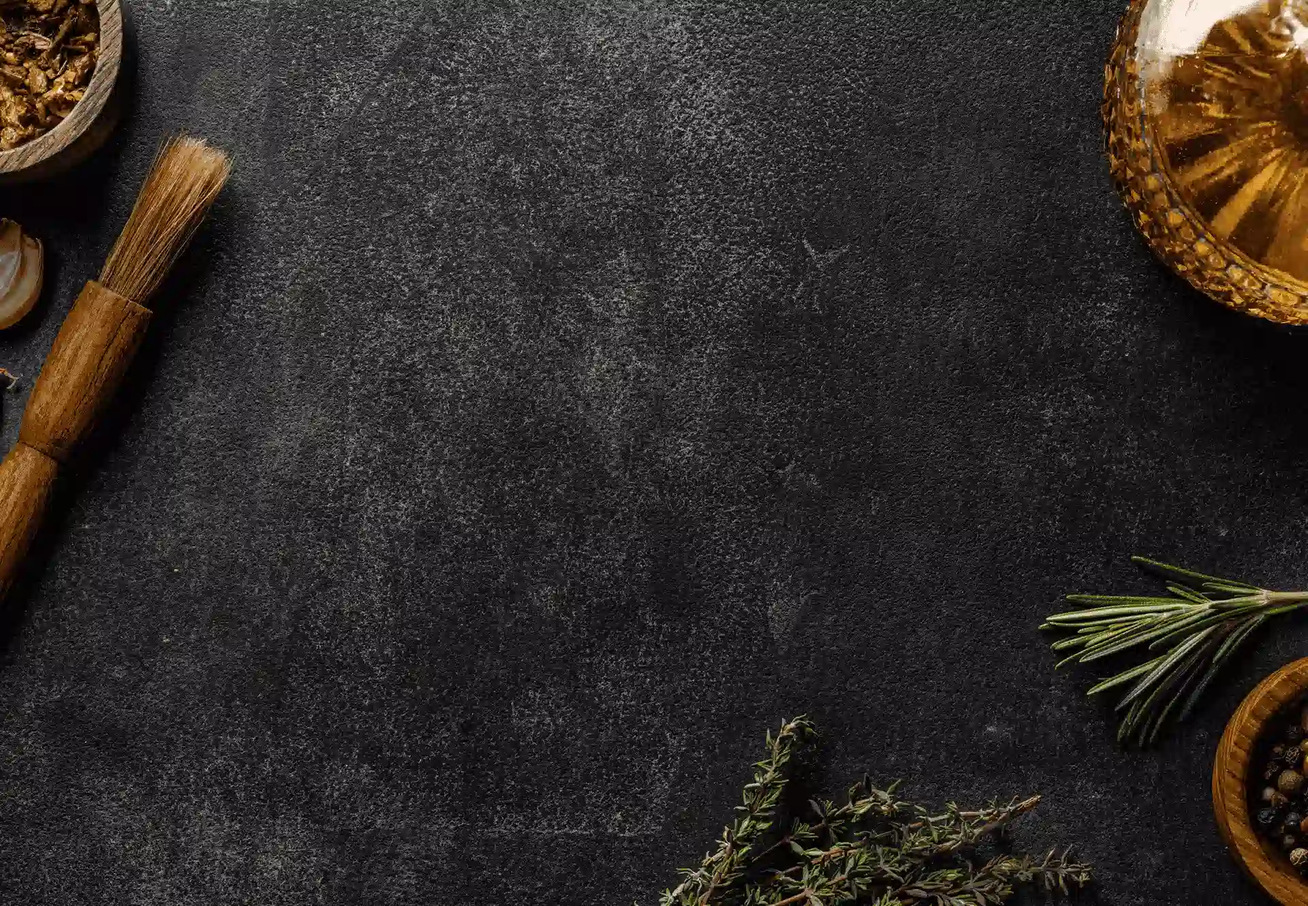
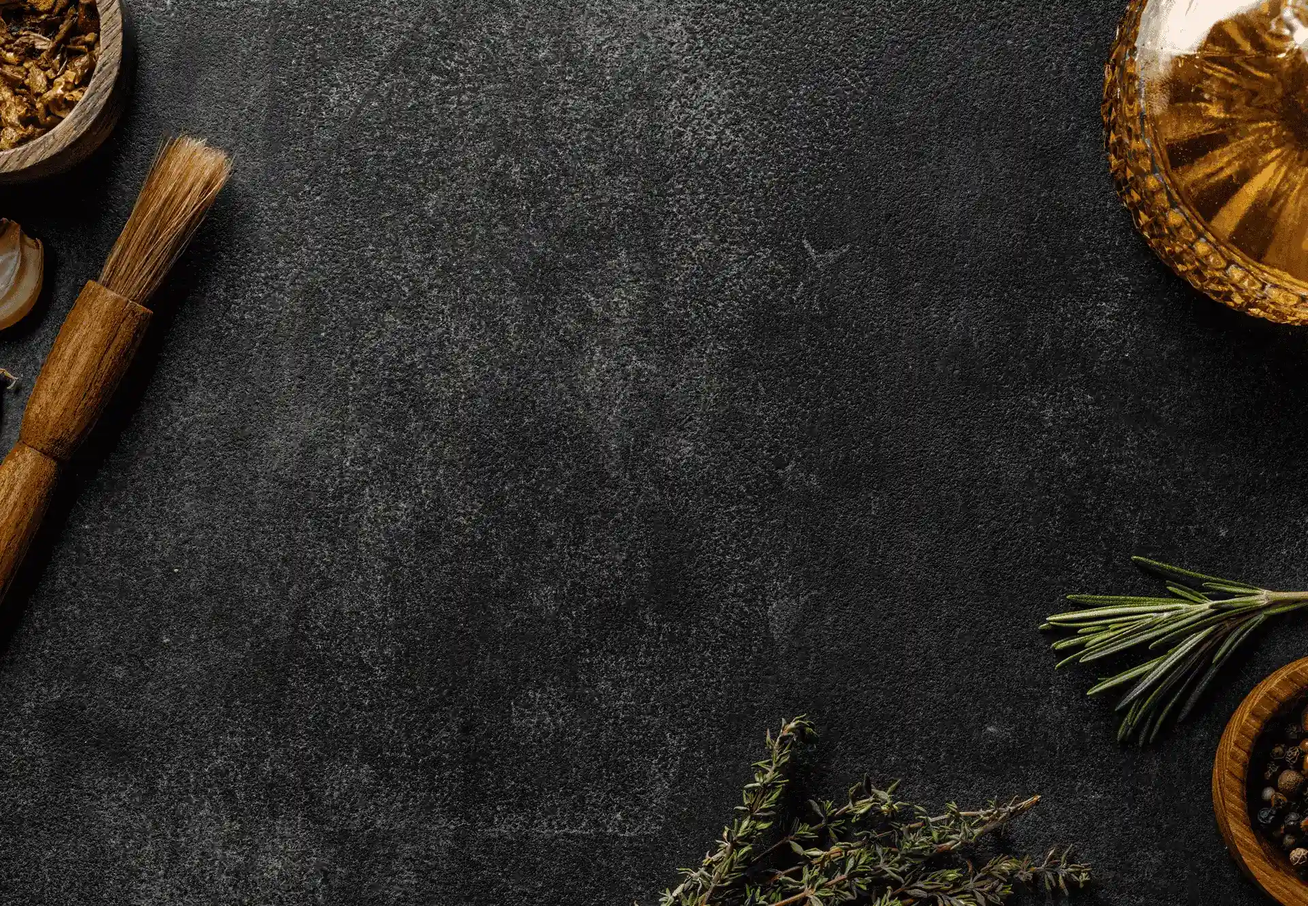
imagen header

diff --git a/src/components/home/HomeHeader.jsx b/src/components/home/HomeHeader.jsx
@@ -35,7 +35,7 @@ export const HomeHeader = () => {
       <header
          className={cn(
             'flex flex-row justify-center items-center gap-40',
-            'w-full h-screen bg-[url(/home/header-image-mobil.webp)] md:bg-[url(/home/header-image.webp)]'
+            'w-full h-screen bg-[url(/home/header-image-mobil.jpg)] md:bg-[url(/home/header-image.webp)]'
          )}
       >
          <section className='space-y-4'>
